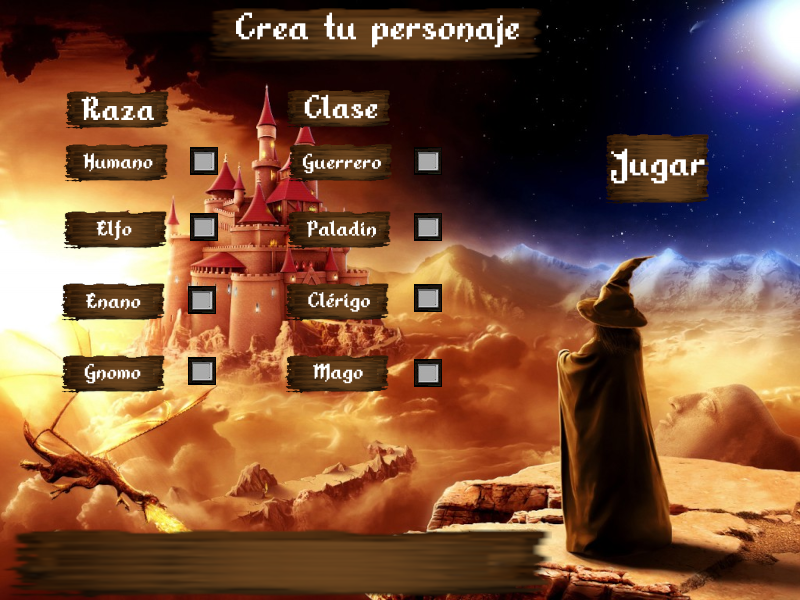
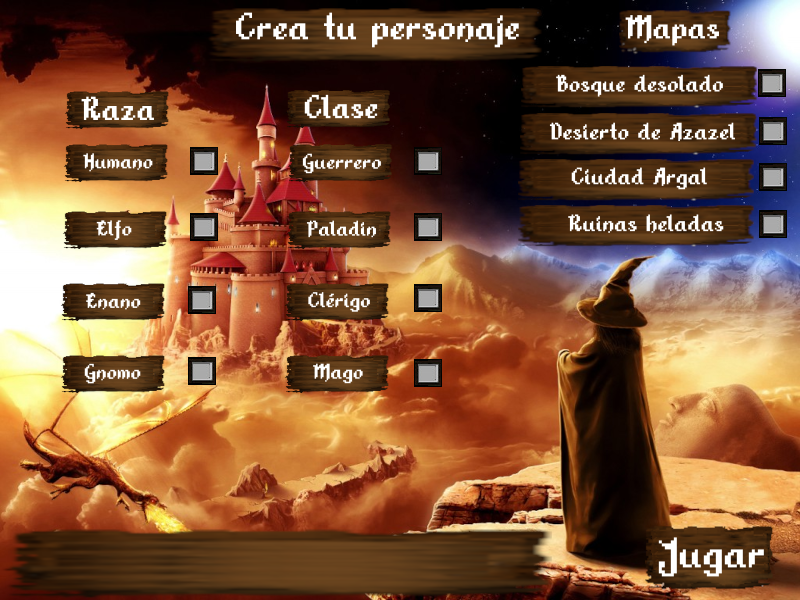
inclusion de eleccion de mapa

Changed region(s): [[0.625, 0.0, 1.0, 0.42], [0.8125, 0.87, 0.9688, 0.99]]

diff --git a/client/lobby.cpp b/client/lobby.cpp
@@ -48,12 +48,21 @@ Lobby::Lobby(SDL_Window* win, SDL_Renderer* ren)
       InteractiveBox(X_CLASS, Y_CLASS_CLERIC, CHECKBOX_EDGE, CHECKBOX_EDGE);
   option_wizard =
       InteractiveBox(X_CLASS, Y_CLASS_WIZARD, CHECKBOX_EDGE, CHECKBOX_EDGE);
+  option_grass_map =
+      InteractiveBox(X_MAP, Y_MAP_GRASS, CHECKBOX_EDGE, CHECKBOX_EDGE);
+  option_desert_map =
+      InteractiveBox(X_MAP, Y_MAP_DESERT, CHECKBOX_EDGE, CHECKBOX_EDGE);
+  option_argal_map =
+      InteractiveBox(X_MAP, Y_MAP_ARGAL, CHECKBOX_EDGE, CHECKBOX_EDGE);
+  option_ice_map =
+      InteractiveBox(X_MAP, Y_MAP_ICE, CHECKBOX_EDGE, CHECKBOX_EDGE);
   play = InteractiveBox(X_PLAY_BUTTON, Y_PLAY_BUTTON, PLAY_BUTTON_W,
                         PLAY_BUTTON_H);
   race_message = WARNING_MESSAGE;
   class_message = WARNING_MESSAGE2;
   race_selected = RACE_HUMAN;
   class_selected = CLASS_WARRIOR;
+  initial_map = GRASS;
 }
 
 Lobby::~Lobby() {
@@ -65,7 +74,7 @@ Lobby::~Lobby() {
 bool Lobby::start_lobby() {
   bool exit_success = true;
   lobby_music.play_music();
-  //lobby_music.decrease_music_volume(40);
+  // lobby_music.decrease_music_volume(40);
   if (!quit) lobby_log_in();
   if (!quit) lobby_character_selection();
   lobby_music.stop_music();
@@ -124,7 +133,7 @@ void Lobby::lobby_log_in() {
 
             // Chequeamos si el usuario quiere borrar algo
             else if (event_chat.type == SDL_KEYDOWN &&
-                event_chat.key.keysym.sym == SDLK_BACKSPACE) {
+                     event_chat.key.keysym.sym == SDLK_BACKSPACE) {
               if (user_name.length()) {
                 user_name.pop_back();
                 need_letter = false;
@@ -235,9 +244,12 @@ void Lobby::lobby_character_selection() {
   int y_race_checkmark;
   int x_class_checkmark;
   int y_class_checkmark;
+  int x_map_checkmark;
+  int y_map_checkmark;
   int x, y;
   bool race_checkmark = false;
   bool class_checkmark = false;
+  bool map_checkmark = false;
 
   while (is_running) {
     while (SDL_PollEvent(&event) != 0) {
@@ -318,6 +330,30 @@ void Lobby::lobby_character_selection() {
           class_checkmark = true;
           if (race_message == WARNING_MESSAGE) race_message = "";
           click_sound.play_sound(0);
+        } else if (option_grass_map.mouse_click_in(x, y)) {
+          x_map_checkmark = X_MAP;
+          y_map_checkmark = Y_MAP_GRASS;
+          initial_map = GRASS;
+          map_checkmark = true;
+          click_sound.play_sound(0);
+        } else if (option_desert_map.mouse_click_in(x, y)) {
+          x_map_checkmark = X_MAP;
+          y_map_checkmark = Y_MAP_DESERT;
+          initial_map = GRASS;
+          map_checkmark = true;
+          click_sound.play_sound(0);
+        } else if (option_argal_map.mouse_click_in(x, y)) {
+          x_map_checkmark = X_MAP;
+          y_map_checkmark = Y_MAP_ARGAL;
+          initial_map = GRASS;
+          map_checkmark = true;
+          click_sound.play_sound(0);
+        } else if (option_ice_map.mouse_click_in(x, y)) {
+          x_map_checkmark = X_MAP;
+          y_map_checkmark = Y_MAP_ICE;
+          initial_map = GRASS;
+          map_checkmark = true;
+          click_sound.play_sound(0);
         } else if (play.mouse_click_in(x, y)) {
           is_running = false;
           click_sound.play_sound(0);
@@ -346,6 +382,9 @@ void Lobby::lobby_character_selection() {
       if (class_checkmark)
         check_mark->render(renderer, NULL, x_class_checkmark,
                            y_class_checkmark);
+      if (map_checkmark)
+        check_mark->render(renderer, NULL, x_map_checkmark,
+                           y_map_checkmark);
 
       // Renderizamos todo lo de esta pasada
       SDL_RenderPresent(renderer);
@@ -404,6 +443,8 @@ std::string Lobby::get_user_name() { return user_name; }
 std::string Lobby::get_player_race() { return race_selected; }
 
 std::string Lobby::get_player_class() { return class_selected; }
+
+int Lobby::get_initial_map() { return initial_map; }
 
 int Lobby::get_screen_width() { return screen_width; }
 

diff --git a/client/lobby.h b/client/lobby.h
@@ -14,6 +14,10 @@
 #define HEIGHT_600 600
 #define WIDTH_1024 1024
 #define HEIGHT_768 768
+#define GRASS 0
+#define DESERT 1
+#define ARGAL 2
+#define ICE 3
 
 #define MAX_USER_INPUT 14
 #define X_LOGIN 489
@@ -35,10 +39,15 @@
 #define Y_CLASS_PALADIN 216
 #define Y_CLASS_CLERIC 288
 #define Y_CLASS_WIZARD 364
-#define X_PLAY_BUTTON 608
-#define Y_PLAY_BUTTON 136
-#define PLAY_BUTTON_W 100
-#define PLAY_BUTTON_H 64
+#define X_PLAY_BUTTON 648
+#define Y_PLAY_BUTTON 527
+#define X_MAP 759
+#define Y_MAP_GRASS 70
+#define Y_MAP_DESERT 117
+#define Y_MAP_ARGAL 163
+#define Y_MAP_ICE 210
+#define PLAY_BUTTON_W 122
+#define PLAY_BUTTON_H 62
 #define CHECKBOX_EDGE 24
 #define WARNING_MESSAGE "Se permite un personaje por usuario."
 #define WARNING_MESSAGE2 \
@@ -92,6 +101,10 @@ class Lobby {
   InteractiveBox option_paladin;
   InteractiveBox option_cleric;
   InteractiveBox option_wizard;
+  InteractiveBox option_grass_map;
+  InteractiveBox option_desert_map;
+  InteractiveBox option_argal_map;
+  InteractiveBox option_ice_map;
   InteractiveBox play;
   bool is_running;
   bool quit;
@@ -105,6 +118,7 @@ class Lobby {
   std::string class_message;
   std::string race_selected;
   std::string class_selected;
+  int initial_map;
   SoundEffect click_sound;
   SoundEffect lobby_music;
 
@@ -118,6 +132,7 @@ class Lobby {
   std::string get_user_name();
   std::string get_player_race();
   std::string get_player_class();
+  int get_initial_map();
   int get_screen_width();
   int get_screen_height();
   bool get_fs_mode();

diff --git a/client/client.cpp b/client/client.cpp
@@ -21,11 +21,10 @@ Client::Client(const char* host, const char* port, WindowGame& new_window)
 Client::~Client() {}
 
 void Client::do_handshake(std::string user_name, std::string race_selected,
-                          std::string class_selected) {
+                          std::string class_selected, int initial_map) {
   // Mandamos la información del usuario y preferencias
-  int initial_room = HelperFunctions::random_int(0, 2);
   LoginCommandDTO* login_command = new LoginCommandDTO(
-      initial_room, user_name, race_selected, class_selected);
+      initial_map, user_name, race_selected, class_selected);
 
   Protocol::send_command(socket, login_command);
   delete login_command;

diff --git a/client/main.cpp b/client/main.cpp
@@ -34,9 +34,9 @@ int main(int argc, char* argv[]) {
                                        window_game.get_height_ratio());
 
       // Hacemos el handshake con el server
-      client.do_handshake(argentum_lobby.get_user_name(),
-                          argentum_lobby.get_player_race(),
-                          argentum_lobby.get_player_class());
+      client.do_handshake(
+          argentum_lobby.get_user_name(), argentum_lobby.get_player_race(),
+          argentum_lobby.get_player_class(), argentum_lobby.get_initial_map());
 
       // Comenzamos el juego
       client.play();

diff --git a/client/client.h b/client/client.h
@@ -16,7 +16,6 @@
 #include "game.h"
 #include "game_renderer.h"
 #include "game_updater.h"
-#include "helper_functions.h"
 #include "login_command_dto.h"
 #include "protocol.h"
 #include "texture.h"
@@ -34,7 +33,7 @@ class Client {
   Client(const char*, const char*, WindowGame&);
   ~Client();
   void play();
-  void do_handshake(std::string, std::string, std::string);
+  void do_handshake(std::string, std::string, std::string, int);
 };
 
 #endif
